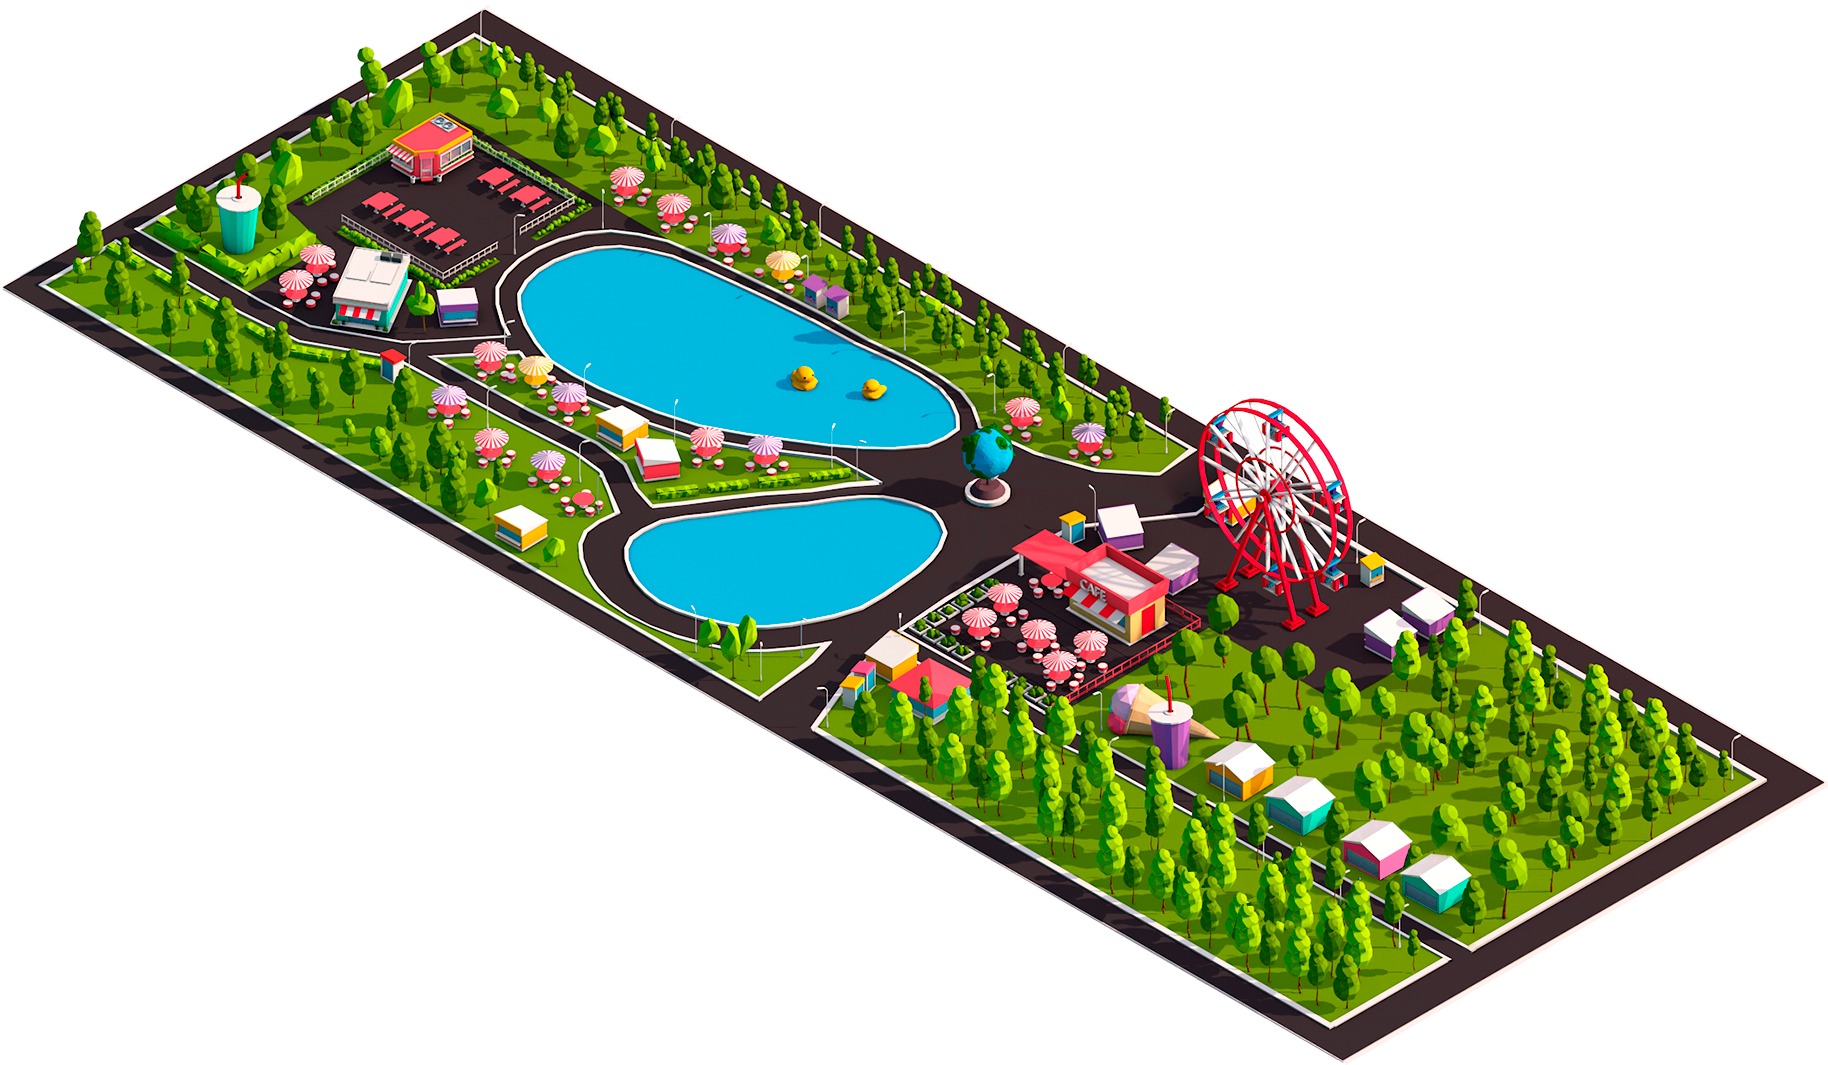
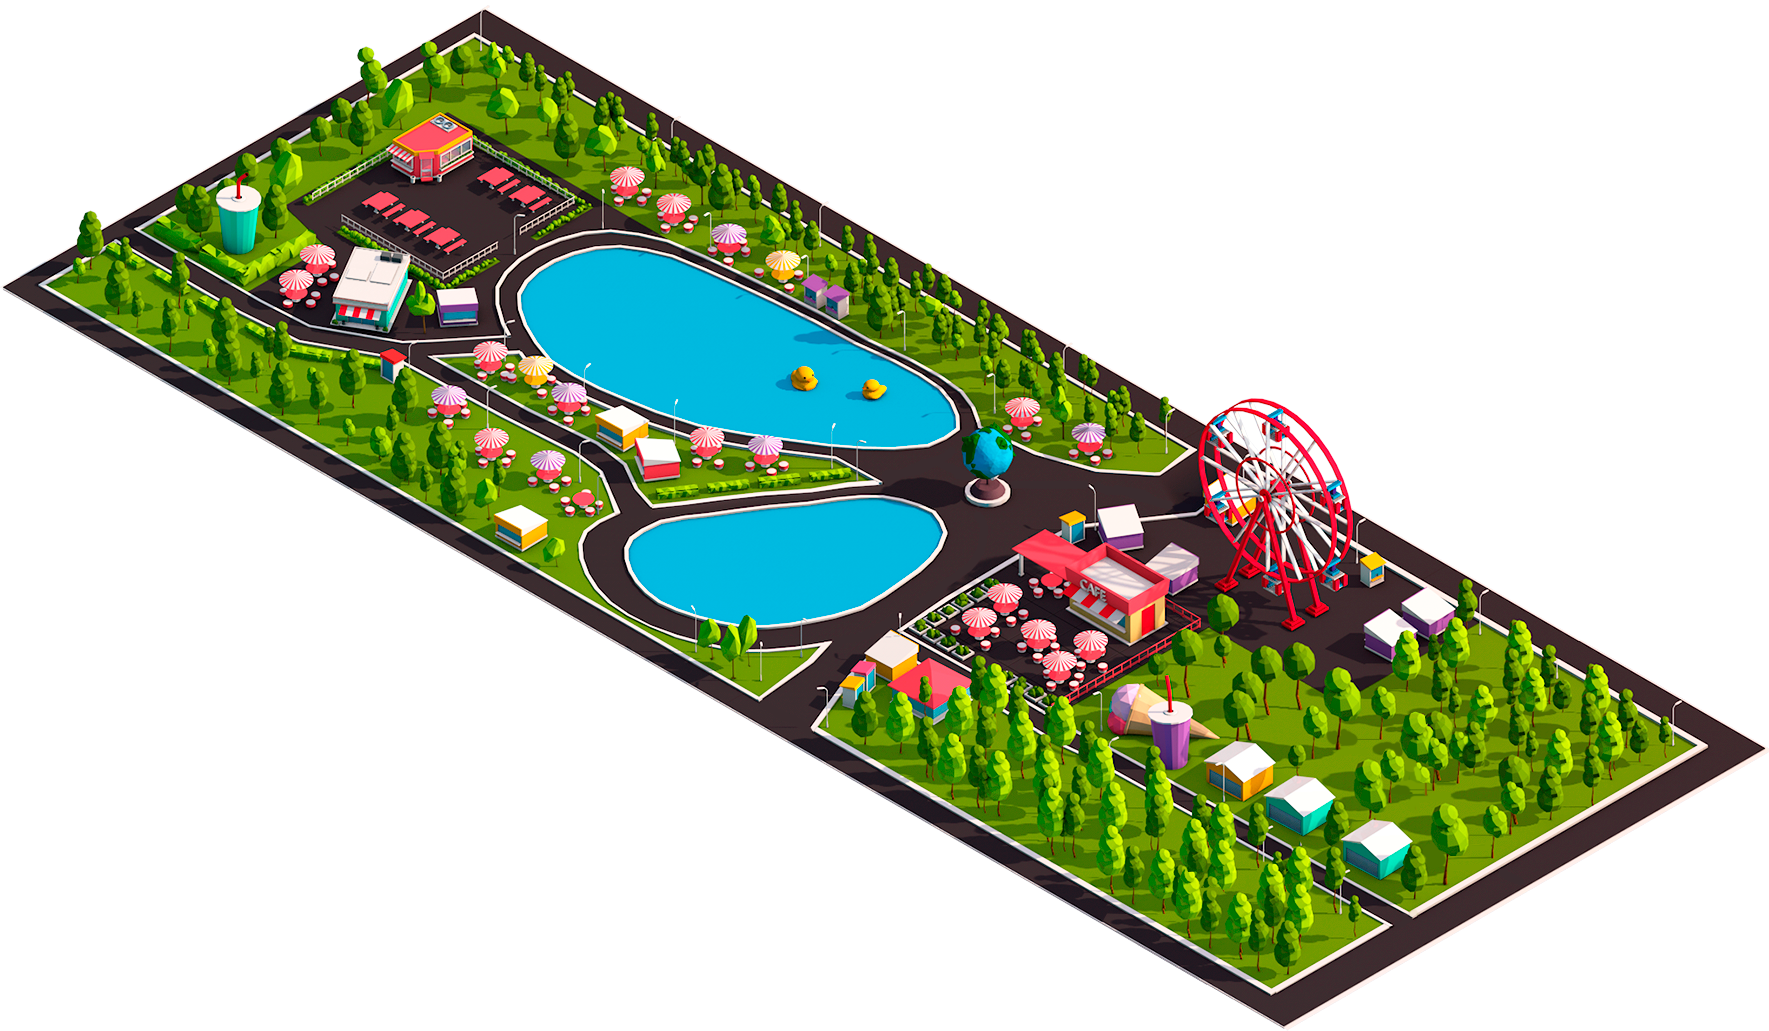
change park

Changed region(s): [[0.0, 0.0, 1.0, 1.0]]

diff --git a/src/app/app.content.html b/src/app/app.content.html
@@ -62,12 +62,11 @@
   <div class="wrap" [ngStyle]="{'transform': 'translate(' + navigation.left + 'px,' + navigation.top + 'px' + ') scale(' + navigation.scale + ')'}" [style.left]="navigation.x + 'px'" [style.top]="navigation.y + 'px'">
     <ng-container #wasEmpty *ngFor="let line of jsonSections; let lineIndex = index">
       <ng-container *ngFor="let cell of line; let cellIndex = index">
-
         <div class="section1" *ngIf="cell.draw && cell.width == 1 && cell.height == 1" [style.background-image]="'url(../assets/City_Objects/Block_' + cell.name +'.png)'" [style.left] = "(lineIndex*268)+(cellIndex*267)  +'px'" [style.top] = "(lineIndex*155)+(cellIndex*(-155))  +'px'" [style.z-index] = "lineIndex-cellIndex"></div>
         <div class="section2-horizontal" *ngIf="cell.draw && cell.width == 2 && cell.height == 1" [style.background-image]="'url(../assets/City_Objects/Block_' + cell.name +'.png)'" [style.left] = "138+(lineIndex*267)+(cellIndex*267) +'px'" [style.top] = "-51+(lineIndex*155)+(cellIndex*(-155)) +'px'" [style.z-index] = "lineIndex-cellIndex"></div>
         <div class="section2-vertical" *ngIf="cell.draw && cell.width == 1 && cell.height == 2" [style.background-image]="'url(../assets/City_Objects/Block_' + cell.name +'.png)'" [style.left] = "130+(lineIndex*268)+(cellIndex*267) +'px'" [style.top] = "-430+(lineIndex*155)+(cellIndex*(-155)) +'px'" [style.z-index] = "lineIndex-cellIndex"></div>
-        <div class="section4-vertical" *ngIf="cell.draw && cell.width == 2 && cell.height == 4" [style.background-image]="'url(../assets/City_Objects/Block_' + cell.name +'.png)'" [style.left] = "191+(lineIndex*268)+(cellIndex*267) +'px'" [style.top] = "142+(lineIndex*155)+(cellIndex*(-155)) +'px'" [style.z-index] = "lineIndex-cellIndex"></div>
         <div class="section2" *ngIf="cell.draw && cell.width == 2 && cell.height == 2" [style.background-image]="'url(../assets/City_Objects/Block_' + cell.name +'.png)'" [style.left] = "-77+(lineIndex*268)+(cellIndex*267) +'px'" [style.top] = "-85+(lineIndex*155)+(cellIndex*(-155)) +'px'" [style.z-index] = "lineIndex-cellIndex"></div>
+        <div class="section5" *ngIf="cell.draw && cell.width == 2 && cell.height == 4" [style.background-image]="'url(../assets/City_Objects/Block_' + cell.name +'.png)'" [style.left] = "193+(lineIndex*268)+(cellIndex*267) +'px'" [style.top] = "134+(lineIndex*155)+(cellIndex*(-155)) +'px'" [style.z-index] = "lineIndex-cellIndex"></div>
       </ng-container>
     </ng-container>
     <ng-container *ngFor="let line of jsonSections; let lineIndex = index">

diff --git a/src/app/map/map.css b/src/app/map/map.css
@@ -20,7 +20,7 @@
   width: 100%;
   height: 88%;
 }
-.section1, .section2, .section2-horizontal, .section2-vertical, .section4-vertical, .road-vertical, .road-horizontal, .road-horizontal-long, .road-vertical-long, .road-cross {
+.section1, .section2, .section2-horizontal, .section2-vertical, .section5, .road-vertical, .road-horizontal, .road-horizontal-long, .road-vertical-long, .road-cross {
   position: absolute;
 }
 .section1, .section2-horizontal {
@@ -35,9 +35,9 @@
   width: 850px;
   height: 1275px;
 }
-.section4-vertical {
-  width: 1548px;
-  height: 894px;
+.section5 {
+  width: 1769px;
+  height: 1031px;
 }
 .road-vertical {
   width:270px;
